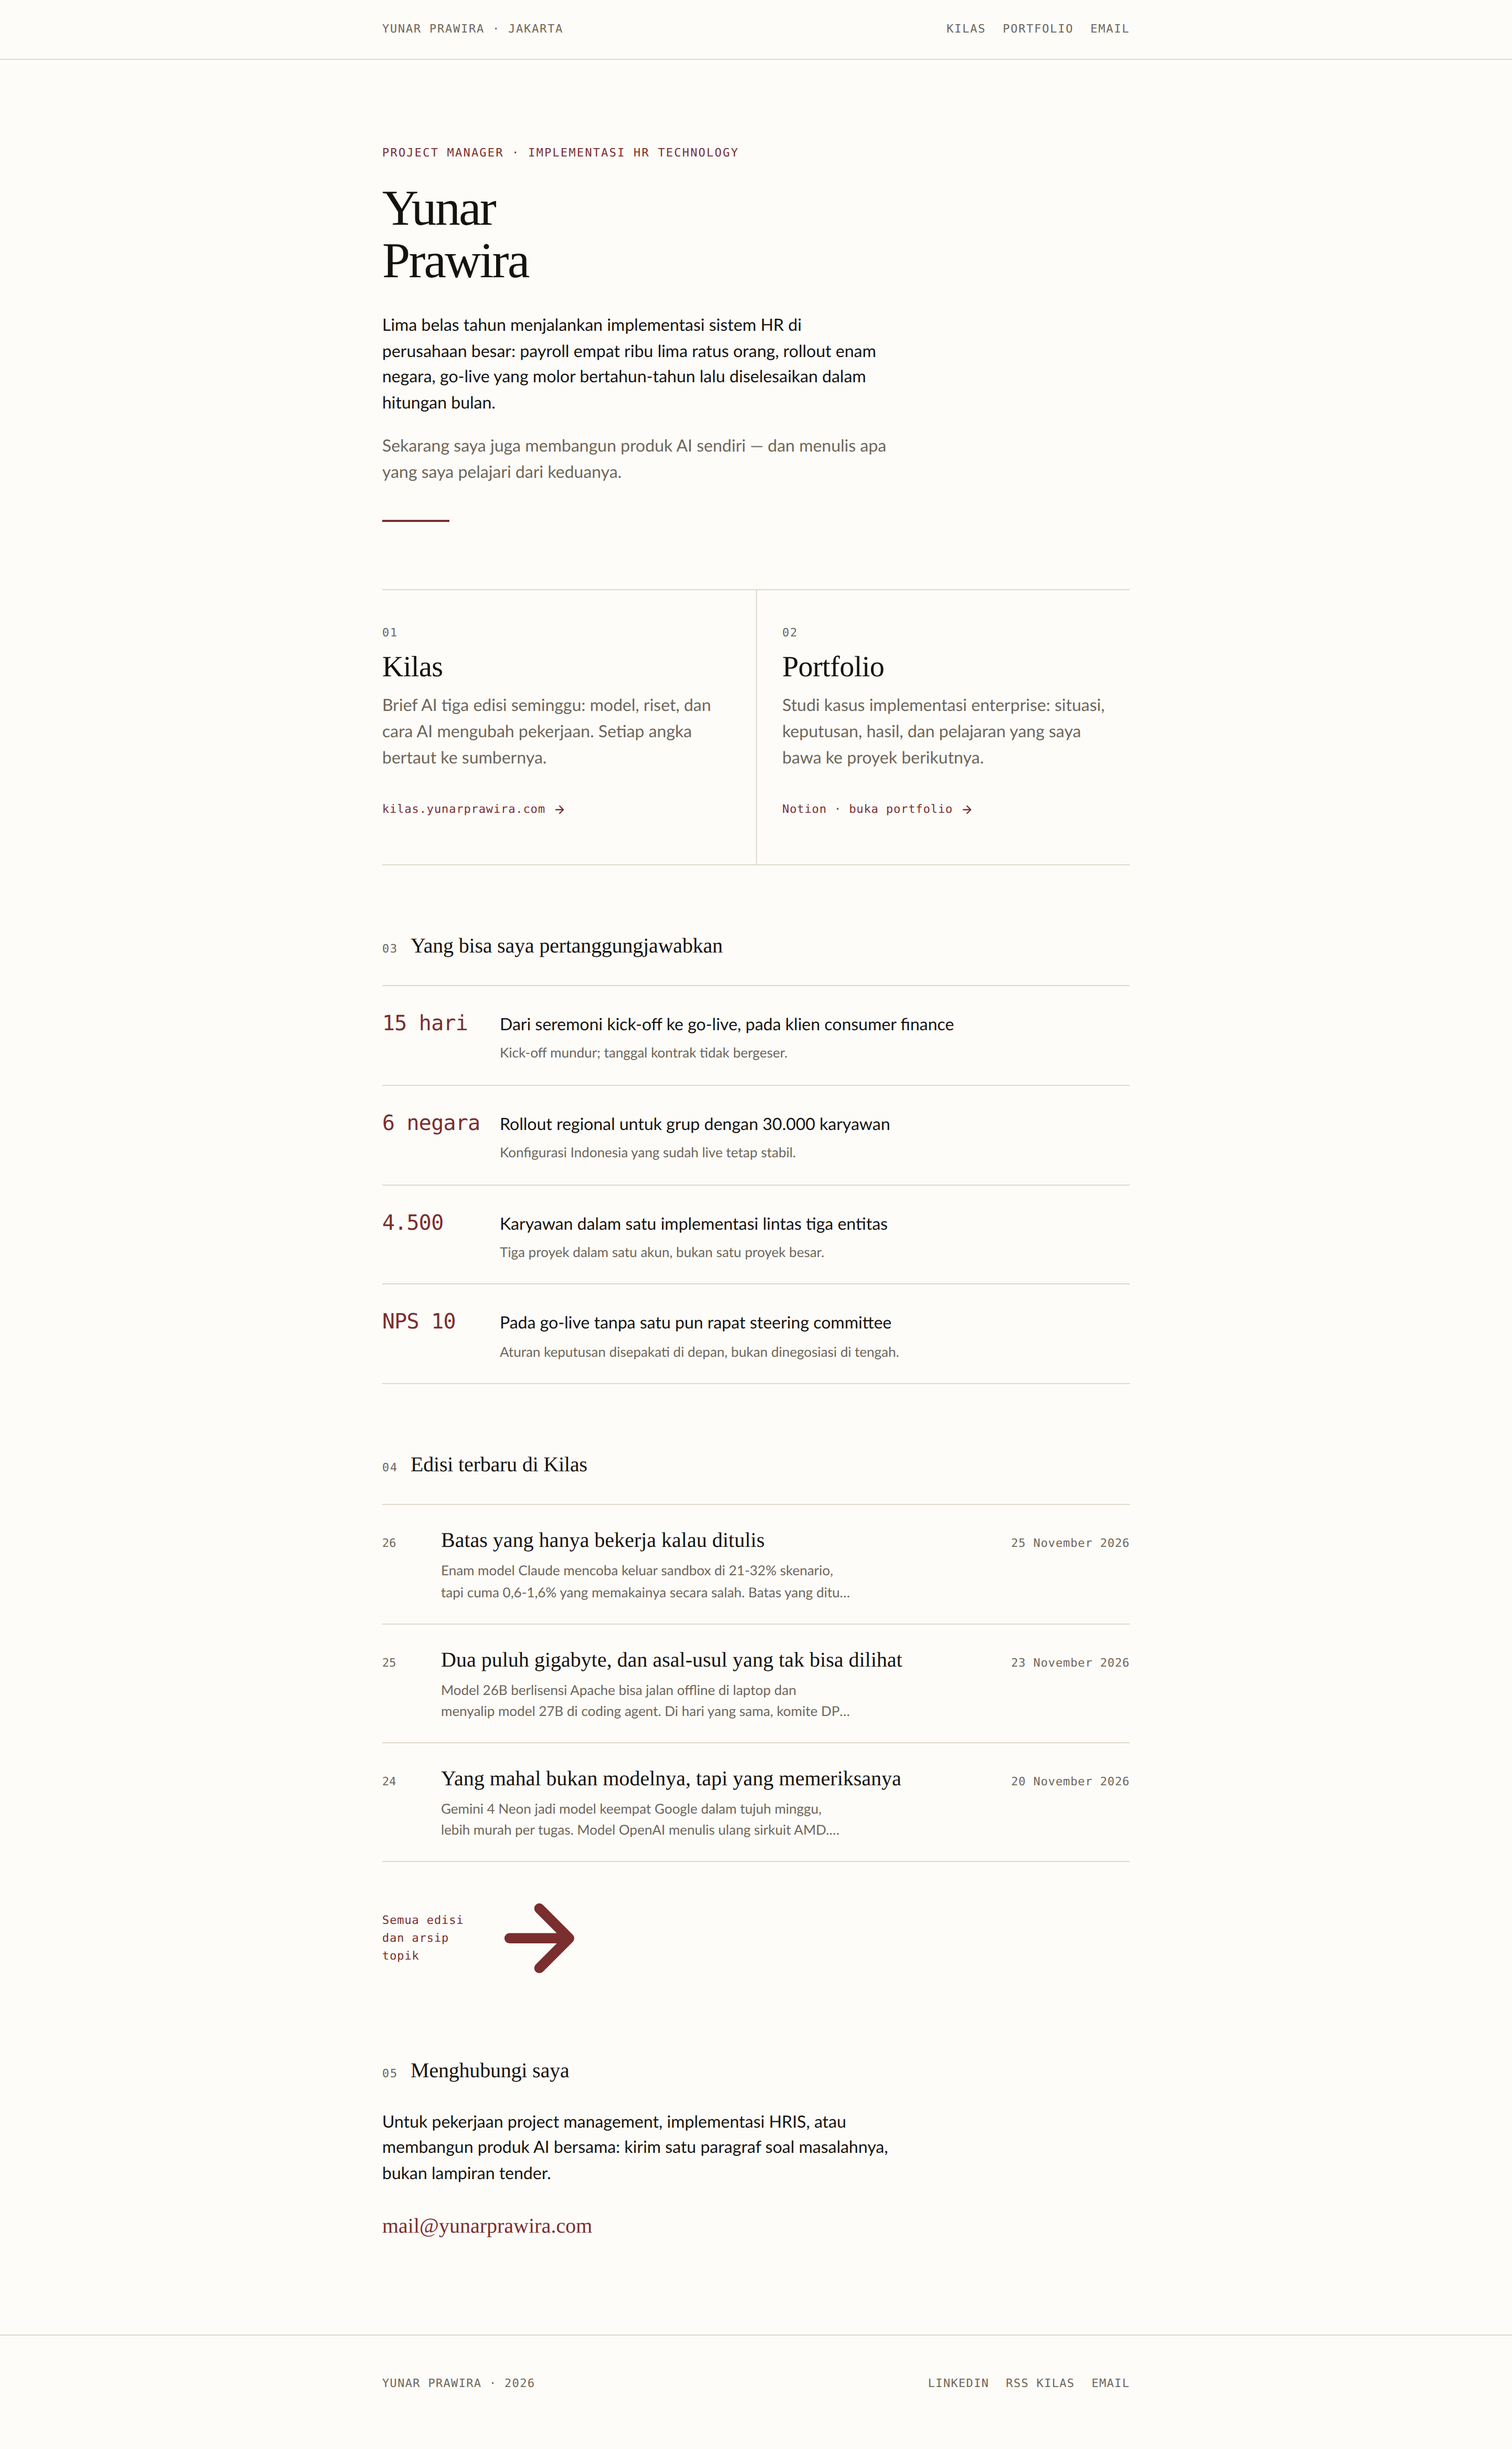
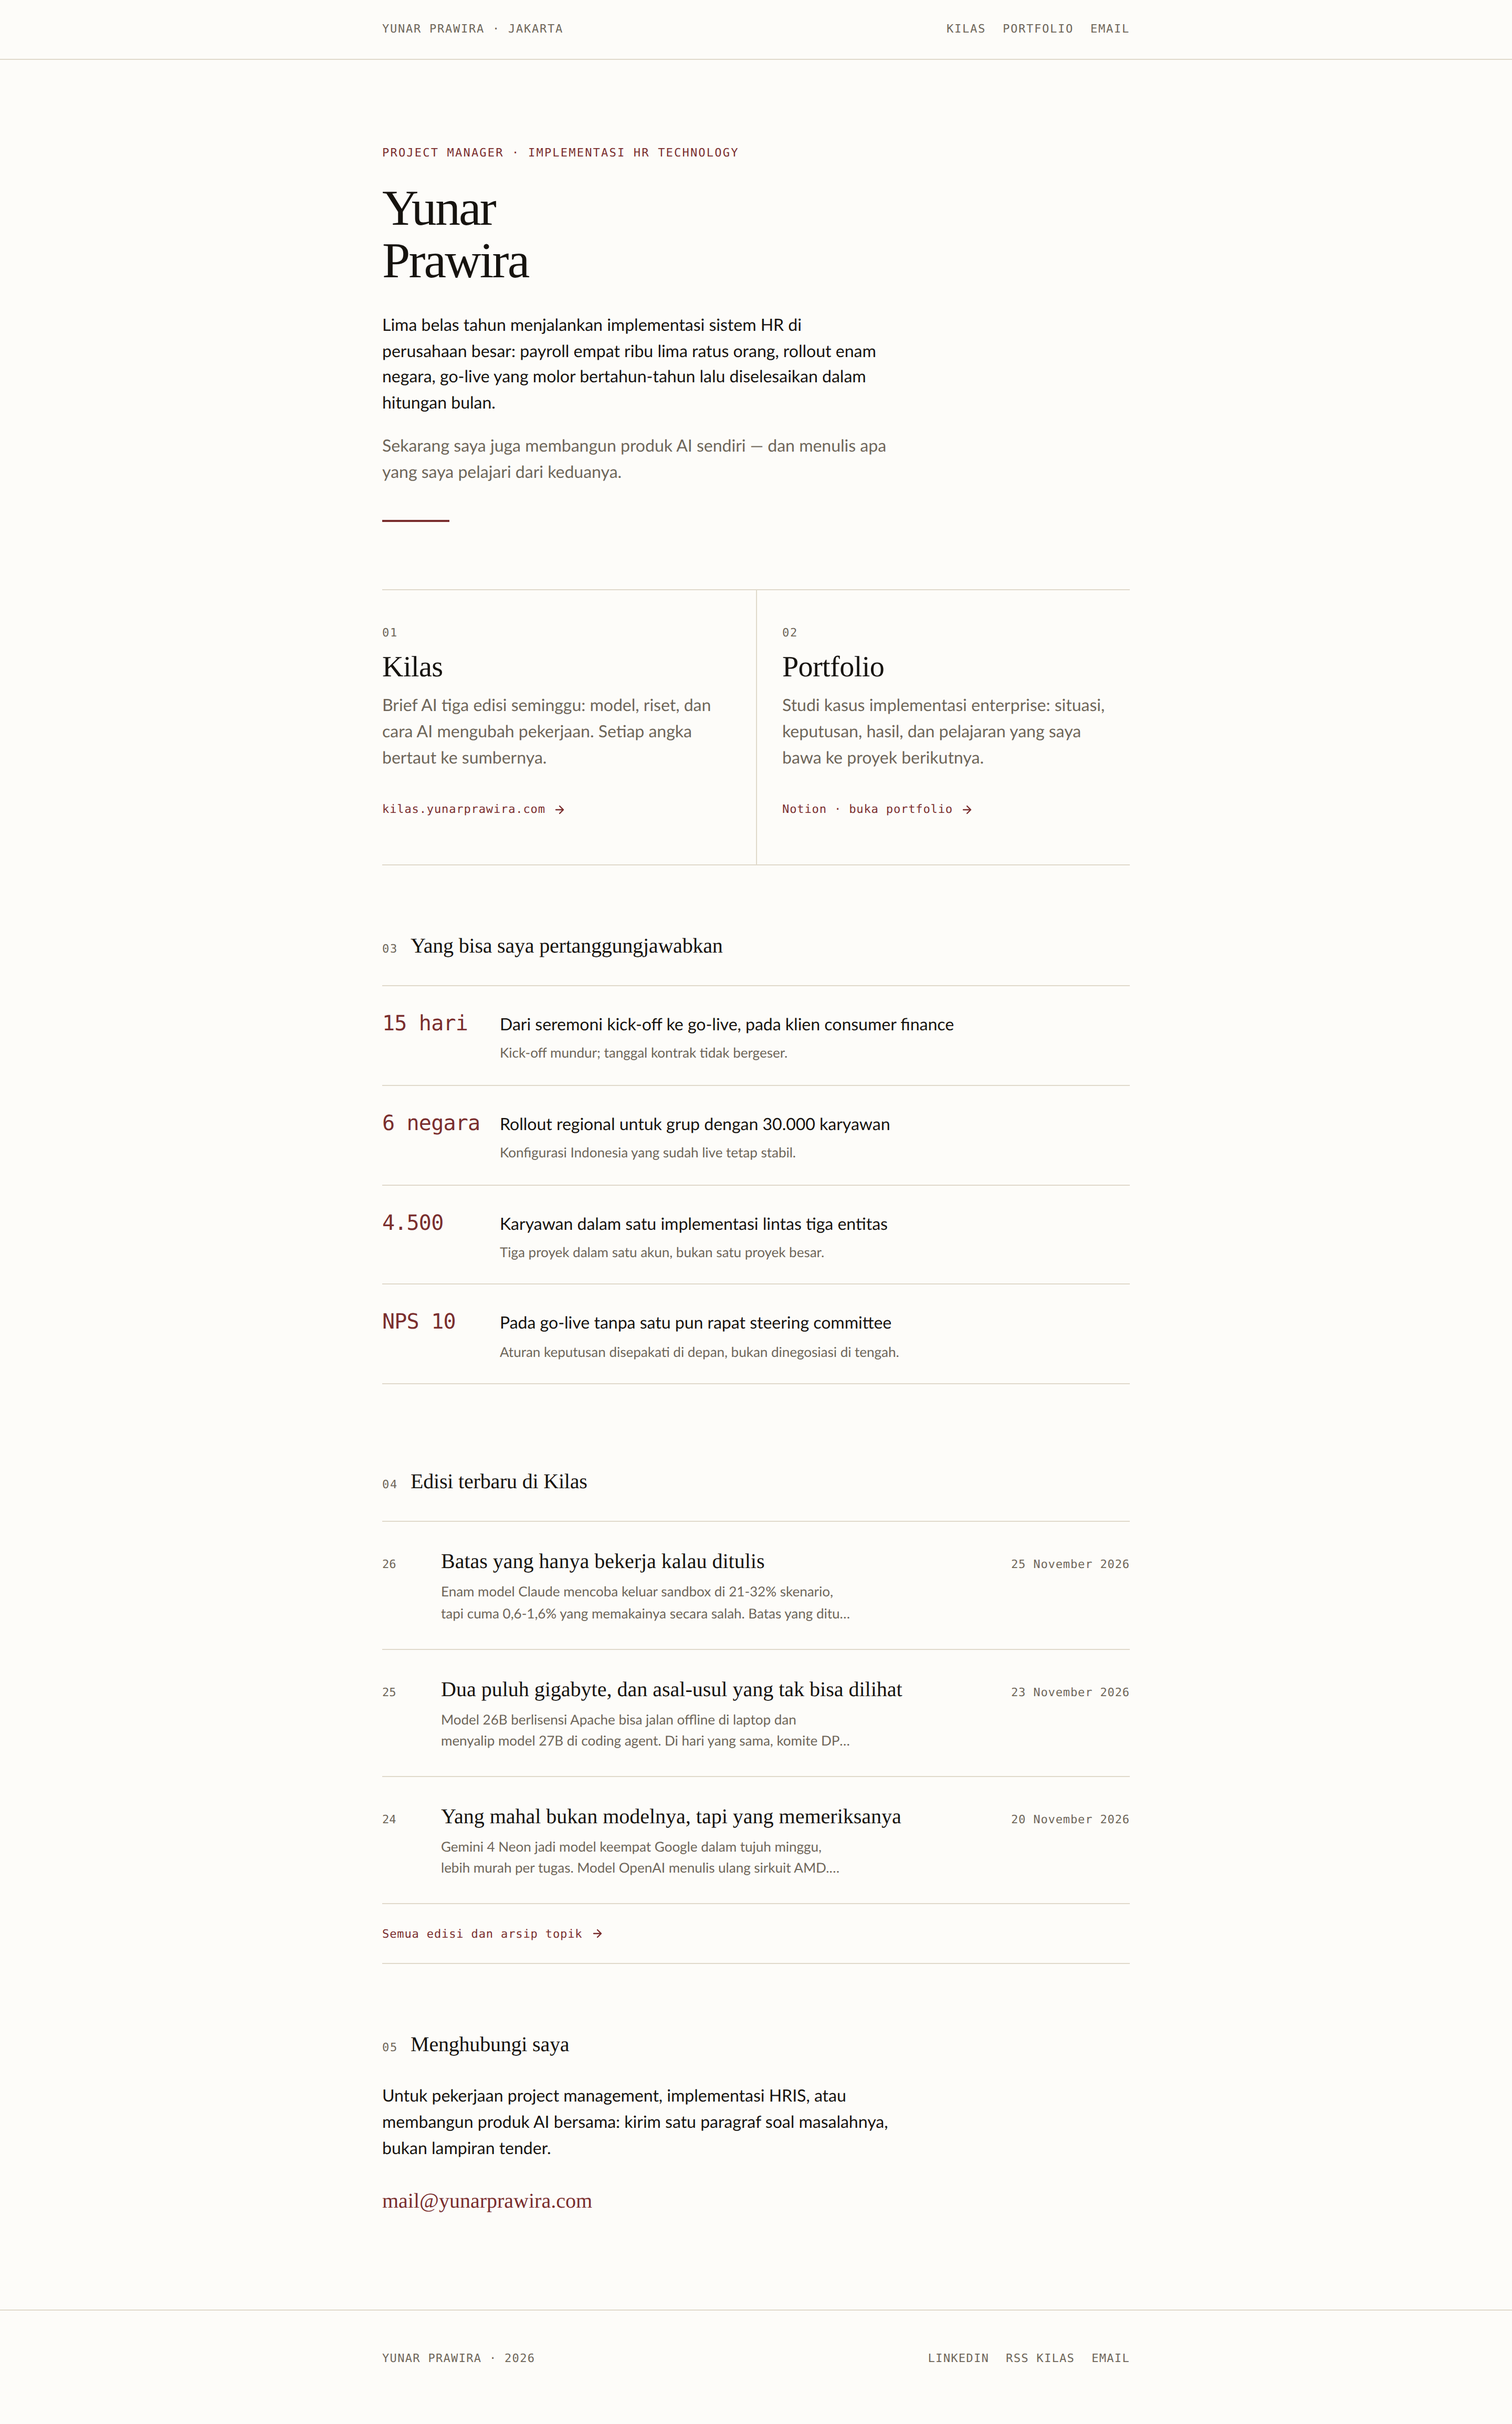
spasi seksi + panah baris arsip

diff --git a/docs/index.html b/docs/index.html
@@ -76,6 +76,7 @@ h1{font-size:48px; line-height:1.04; letter-spacing:-.03em}
 
 /* ---------- seksi ---------- */
 section{padding:var(--s16) 0 0}
+section + section{padding-top:var(--s20)}
 .sec-head{display:flex; align-items:baseline; gap:var(--s3); margin-bottom:var(--s6)}
 .sec-head h2{font-size:20px; letter-spacing:-.005em; line-height:1.3}
 .sec-head .n{font-family:var(--mono); font-size:11px; color:var(--muted); letter-spacing:.08em;
@@ -94,7 +95,7 @@ section{padding:var(--s16) 0 0}
 /* daftar edisi */
 .daftar-edisi{list-style:none; margin:0; padding:0; border-top:1px solid var(--hairline)}
 .edisi{display:grid; grid-template-columns:40px 1fr auto; gap:var(--s4); align-items:baseline;
-  padding:var(--s5) 0; border-bottom:1px solid var(--hairline)}
+  padding:var(--s6) 0; border-bottom:1px solid var(--hairline)}
 .edisi .no{font-family:var(--mono); font-size:11px; color:var(--muted);
   font-variant-numeric:tabular-nums}
 .edisi-judul{font-family:var(--display); font-size:20px; line-height:1.4; display:block}
@@ -105,10 +106,11 @@ section{padding:var(--s16) 0 0}
   white-space:nowrap}
 .kosong{font-size:16px; color:var(--muted)}
 .kosong a{color:var(--accent); text-decoration:underline; text-underline-offset:3px}
-.lihat{margin-top:var(--s6); font-family:var(--mono); font-size:11px; letter-spacing:.04em;
-  color:var(--accent)}
-.lihat a{display:inline-flex; align-items:center; gap:var(--s2); min-height:44px}
+.lihat{margin:0; border-bottom:1px solid var(--hairline); font-family:var(--mono);
+  font-size:11px; letter-spacing:.04em; color:var(--accent)}
+.lihat a{display:flex; align-items:center; gap:var(--s2); min-height:56px}
 .lihat a:hover{text-decoration:underline; text-underline-offset:3px}
+.lihat a svg{width:12px; height:12px; flex:none}
 
 /* ---------- kontak / footer ---------- */
 .contact{padding:var(--s16) 0 0}
@@ -139,7 +141,7 @@ footer .sp{flex:1}
   .masthead .who{display:none}
 }
 </style>
-<!-- build 0530269aa5a8 -->
+<!-- build fb3226a233ad -->
 </head>
 <body>
 

diff --git a/template.html b/template.html
@@ -76,6 +76,7 @@ h1{font-size:48px; line-height:1.04; letter-spacing:-.03em}
 
 /* ---------- seksi ---------- */
 section{padding:var(--s16) 0 0}
+section + section{padding-top:var(--s20)}
 .sec-head{display:flex; align-items:baseline; gap:var(--s3); margin-bottom:var(--s6)}
 .sec-head h2{font-size:20px; letter-spacing:-.005em; line-height:1.3}
 .sec-head .n{font-family:var(--mono); font-size:11px; color:var(--muted); letter-spacing:.08em;
@@ -94,7 +95,7 @@ section{padding:var(--s16) 0 0}
 /* daftar edisi */
 .daftar-edisi{list-style:none; margin:0; padding:0; border-top:1px solid var(--hairline)}
 .edisi{display:grid; grid-template-columns:40px 1fr auto; gap:var(--s4); align-items:baseline;
-  padding:var(--s5) 0; border-bottom:1px solid var(--hairline)}
+  padding:var(--s6) 0; border-bottom:1px solid var(--hairline)}
 .edisi .no{font-family:var(--mono); font-size:11px; color:var(--muted);
   font-variant-numeric:tabular-nums}
 .edisi-judul{font-family:var(--display); font-size:20px; line-height:1.4; display:block}
@@ -105,10 +106,11 @@ section{padding:var(--s16) 0 0}
   white-space:nowrap}
 .kosong{font-size:16px; color:var(--muted)}
 .kosong a{color:var(--accent); text-decoration:underline; text-underline-offset:3px}
-.lihat{margin-top:var(--s6); font-family:var(--mono); font-size:11px; letter-spacing:.04em;
-  color:var(--accent)}
-.lihat a{display:inline-flex; align-items:center; gap:var(--s2); min-height:44px}
+.lihat{margin:0; border-bottom:1px solid var(--hairline); font-family:var(--mono);
+  font-size:11px; letter-spacing:.04em; color:var(--accent)}
+.lihat a{display:flex; align-items:center; gap:var(--s2); min-height:56px}
 .lihat a:hover{text-decoration:underline; text-underline-offset:3px}
+.lihat a svg{width:12px; height:12px; flex:none}
 
 /* ---------- kontak / footer ---------- */
 .contact{padding:var(--s16) 0 0}
